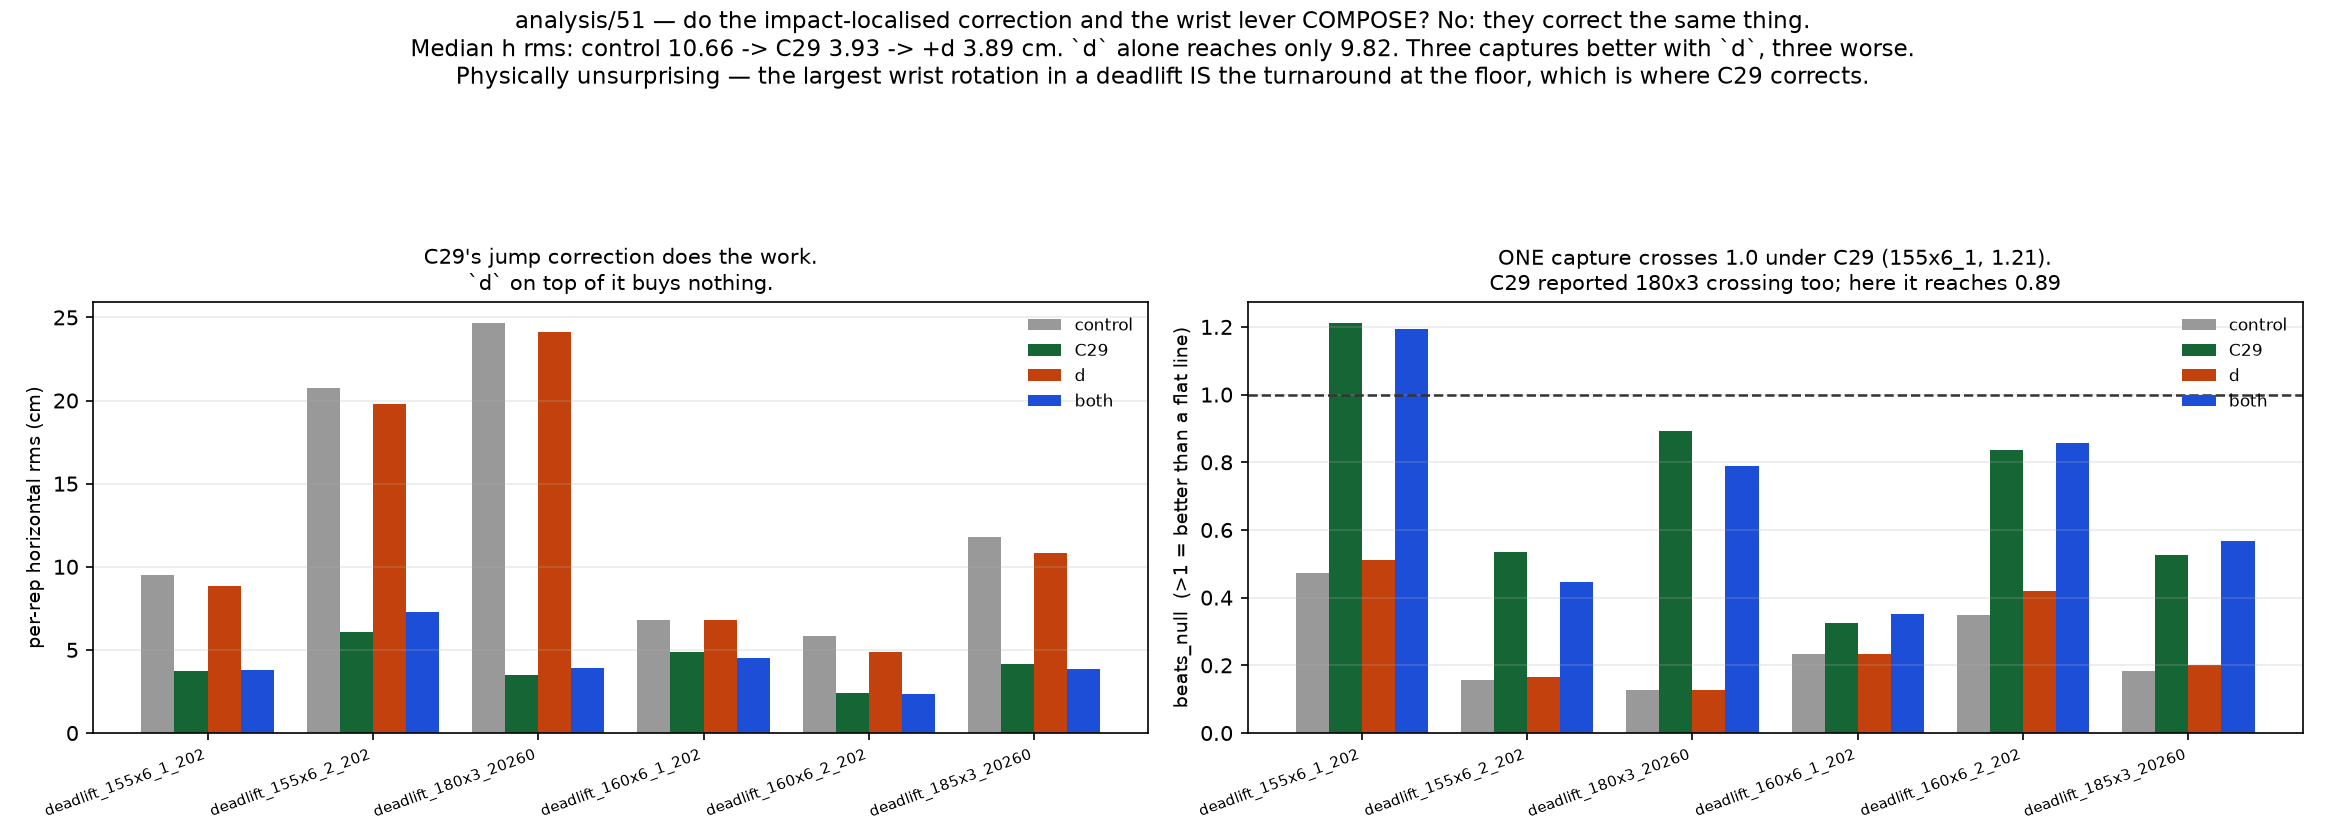
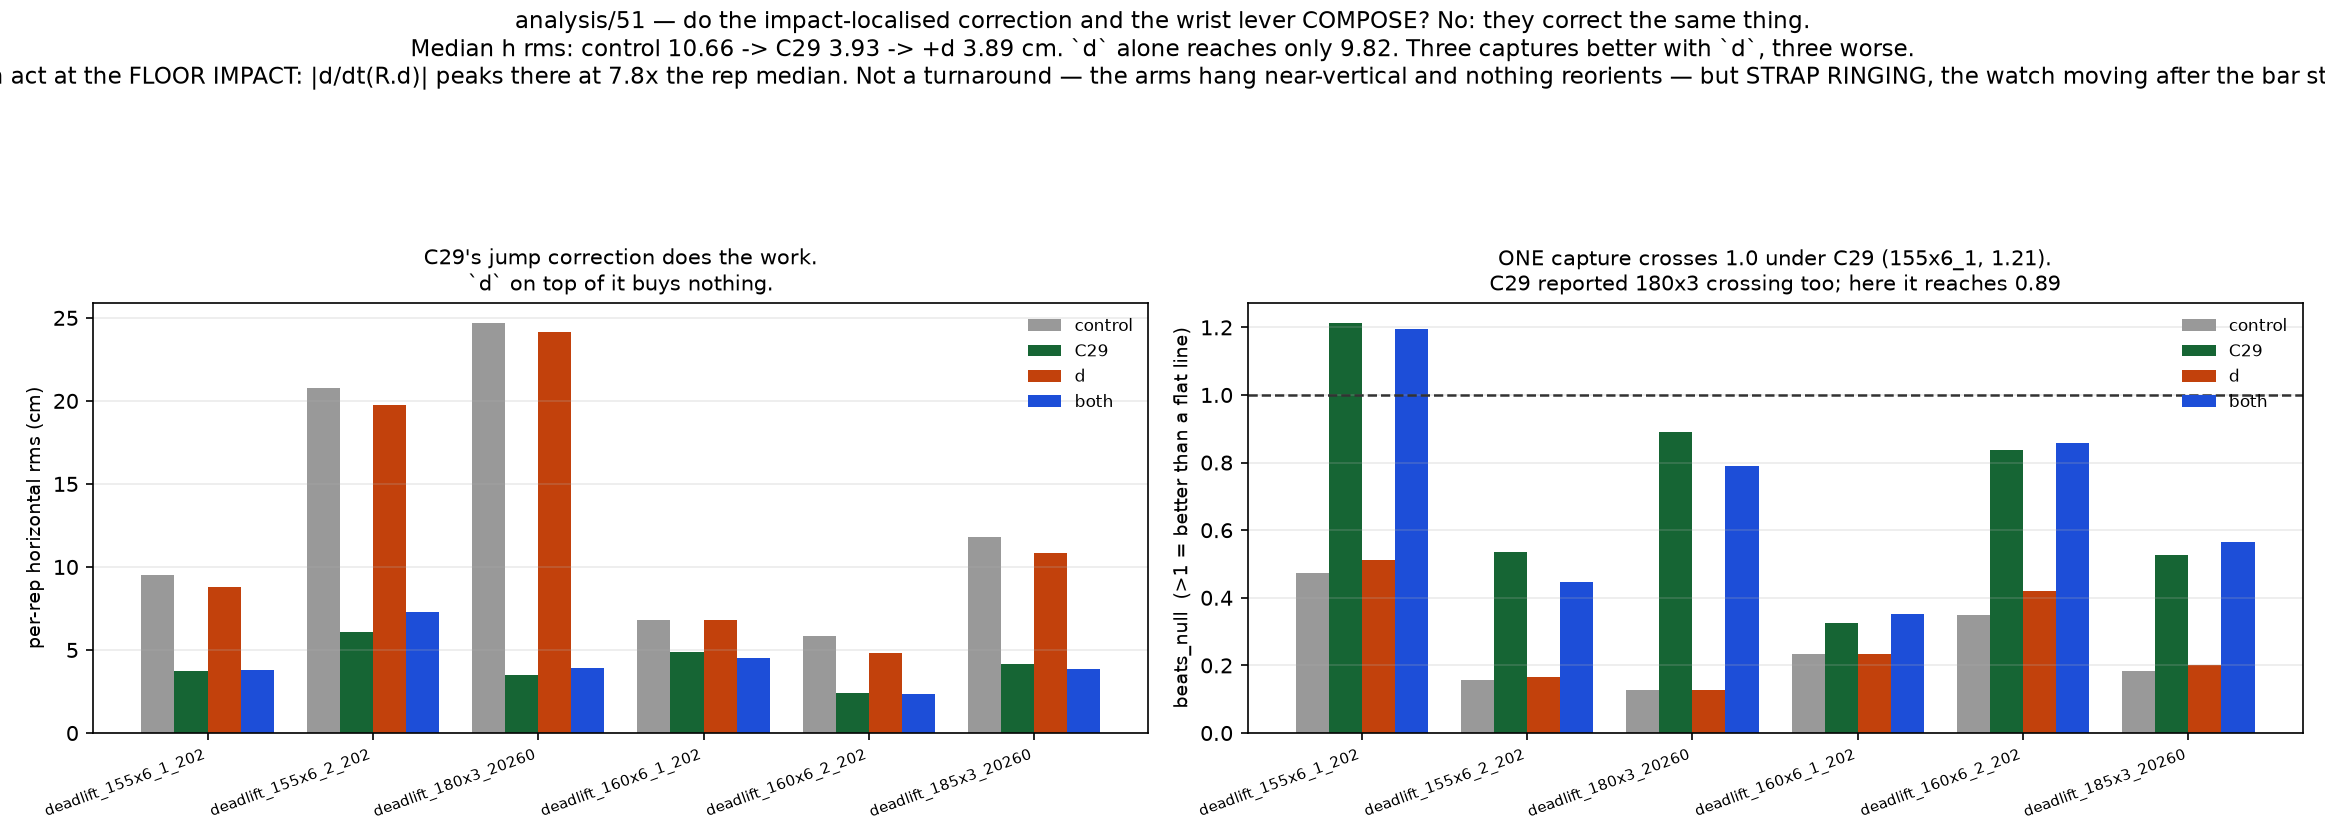
C31: correct two claims of ours that were wrong, in every place they were made
Both were committed and pushed before being caught, so this is a correction
rather than a tidy-up. Neither changes a measurement; both change what the
measurements were said to mean.

1. "THE 8-STICKER SQUAT FOOTAGE TRACKS AT 100%." False. I measured ONE capture
and generalised to the session. Two of the four track; two do not:

    squat_pause_145x4_1   100%   0.88 px   travel 59.4 cm   good
    squat_pause_140x4_2   100%   0.69 px   travel 60.1 cm   good
    squat_170x1          97.8%   1.11 px   travel 14.0 cm   MIS-TRACKED
    squat_pause_140x4_3  96.7%   1.12 px   travel 24.7 cm   MIS-TRACKED

14 cm of travel for a 65 cm squat is not the bar. The failure shape is this
project's recurring one and is the reason it slipped through: COVERAGE AND
RESIDUAL LOOK HEALTHY ON THE BAD CLIPS, because the constellation is fitting
SOMETHING rigidly frame after frame. Same shape as C12 (whole-clip NCC fine
while the template lost the plate at lockout) and C17 (whole-clip residual gate
passing while lockout breached tolerance).

So squat has a PARTIAL external check, the first in this project, not the whole
one claimed. Corrected in CLAUDE.md (both places), TASKS.md's capture-protocol
item, analysis/README.md's entry for 50, plot.plot_pipeline_now's docstring and
figure caption, and run.py's driver comment. analysis/50 regenerated.

It also re-explains an earlier claim: `bench_sync` refused squat_170x1 and
[…]

diff --git a/src/plot.py b/src/plot.py
@@ -1678,9 +1678,11 @@ def plot_pipeline_now(panels: list):
 
     Squat panels carry no video because `metrics.vs_truth` still refuses squat.
     That refusal is now STALE rather than wrong-headed — its stated reason is
-    about the old template footage, and the 8-sticker plate tracks at 100%
-    coverage — but nobody has replaced it with a validated squat sync, so the
-    honest thing is to draw the reconstruction alone and say so.
+    about the old template footage. Note the replacement claim needs care too:
+    only TWO of the four 8-sticker squat clips track cleanly; `squat_170x1` and
+    `squat_pause_140x4_3` report 14.0 and 24.7 cm of travel against 65-70 cm
+    squats (C31, corrected 2026-08-07). And nobody has built a validated squat
+    sync. So the honest thing is to draw the reconstruction alone and say so.
     """
     n = len(panels)
     cols = 3
@@ -1715,8 +1717,8 @@ def plot_pipeline_now(panels: list):
         "step 6 ON\n"
         "Reps overlaid and start-aligned, fore-aft stretched 4x as the display "
         "would draw it. Grey is the video where a referee exists.\n"
-        "Squat has no referee: vs_truth still refuses it, though the 8-sticker "
-        "footage now tracks at 100%.",
+        "Squat has no referee: vs_truth still refuses it, and only two of the "
+        "four 8-sticker squat clips track cleanly.",
         fontsize=11, y=0.995)
     fig.tight_layout(rect=(0, 0, 1, 0.93))
     return fig
@@ -1771,8 +1773,9 @@ def plot_jump_with_d(rows: dict, arms: list):
         "COMPOSE? No: they correct the same thing.\n"
         "Median h rms: control 10.66 -> C29 3.93 -> +d 3.89 cm. `d` alone "
         "reaches only 9.82. Three captures better with `d`, three worse.\n"
-        "Physically unsurprising — the largest wrist rotation in a deadlift IS "
-        "the turnaround at the floor, which is where C29 corrects.",
+        "Both act at the FLOOR IMPACT: |d/dt(R.d)| peaks there at 7.8x the rep "
+        "median. Not a turnaround — the arms hang near-vertical and nothing "
+        "reorients — but STRAP RINGING, the watch moving after the bar stops.",
         fontsize=11, y=0.99)
     fig.tight_layout(rect=(0, 0, 1, 0.86))
     return fig

diff --git a/run.py b/run.py
@@ -1423,9 +1423,10 @@ def draw_pipeline_now() -> int:
             m = metrics.vs_truth(res, pipeline.find_video(csv))
         except (ValueError, FileNotFoundError):
             # vs_truth's squat refusal is STALE rather than wrong-headed: its
-            # stated reason describes the OLD template footage, and the
-            # 8-sticker plate tracks at 100%. Do not paraphrase the exception
-            # into the caption — it would print a reason that is no longer true.
+            # stated reason describes the OLD template footage. Do not paraphrase
+            # the exception into the caption — it would print a reason that is no
+            # longer true. But do not overcorrect either: only two of the four
+            # 8-sticker squat clips track cleanly (C31, 2026-08-07).
             cap = (f"{head}\nNO REFEREE — vs_truth still refuses squat "
                    f"(reason is stale; this footage tracks)")
         else:

diff --git a/analysis/README.md b/analysis/README.md
@@ -1866,9 +1866,13 @@ and the shape is not the bar's. Both are the same code on the same day.
 
 The two squat panels are drawn without a referee because `metrics.vs_truth`
 still refuses squat. That refusal is now **stale rather than wrong-headed**: its
-stated reason is about the old template footage, and the 8-sticker plate tracks
-at 100% coverage with 0.883 px median residual. Replacing it needs a validated
-squat sync, which nobody has built. Until then the squat panels show a
+stated reason is about the old template footage. But the replacement claim
+first made here — that the 8-sticker plate tracks at 100% — was measured on ONE
+capture and generalised, and is corrected (C31, 2026-08-07): two of the four
+squat clips track cleanly and two do not, `squat_170x1` and
+`squat_pause_140x4_3` reporting 14.0 and 24.7 cm of travel against 65-70 cm
+squats. Replacing the refusal needs a validated squat sync, which nobody has
+built, AND half the footage fixed. Until then the squat panels show a
 reconstruction nothing has checked, and should be read that way.
 
 ## 51 — do the impact correction and the wrist lever COMPOSE?
@@ -1891,9 +1895,29 @@ The control and C29 rows **reproduce C29's own numbers exactly**, which is what
 licenses reading the new ones. `d` alone buys 8%; C29 alone buys 63%; together,
 nothing beyond C29 — three captures better with `d` added, three worse.
 
-Physically unsurprising once stated: **the largest wrist rotation in a deadlift
-IS the turnaround at the floor**, which is exactly where C29 corrects. The
-lever-arm error and the impact error are largely the same error seen twice.
+Why, and the first version of this paragraph got the mechanism wrong. It said
+"the largest wrist rotation in a deadlift IS the turnaround at the floor". The
+owner challenged it: the arms hang near-vertical through a deadlift, so nothing
+reorients and the only available motion is a twist. Correct, and measured
+rather than argued (C31, 2026-08-07):
+
+    swept angle per rep                          193-311 deg
+    net wrist swing per rep (C30b)               ~22 deg
+    share of swept angle in the outer 20% of phase   53-67%
+    peak of |d/dt(R.d)|                          phase 0.03, 7.8x rep median
+
+So the lever term really does move most at the floor — but ~90% of the angular
+motion is BACK-AND-FORTH, not reorientation. There is no turnaround. It is
+**strap ringing**, which B6 already identified: the watch still moving after the
+bar has stopped. The *watch* rotates; the wrist does not. The conclusion stands
+— `d` and C29 overlap because both act at the impact — but the stated mechanism
+was wrong twice over.
+
+**And the corrected mechanism carries something the wrong one did not.** Step 6
+assumes `d` is a rigid constant in BODY coordinates. During ringing the watch is
+not rigidly indexed to the wrist, so at exactly the instant `R(t).d` moves most,
+step 6's premise is false. Applying it there may be actively wrong rather than
+merely useless. Nobody has followed that up.
 
 *Two corrections to the record, both against earlier claims of ours.* C29
 reported `deadlift_155x6_1` and `deadlift_180x3` crossing `beats_null = 1.0`;

diff --git a/CLAUDE.md b/CLAUDE.md
@@ -926,8 +926,20 @@ unresolved. See `analysis/48` and `python run.py --dpaths`.
 
 **Squat is no longer the lift with no external horizontal check (C31,
 2026-08-06), and `metrics.vs_truth`'s refusal of it is now STALE.** The
-8-sticker squat plate tracks at **100% coverage, 0.883 px median residual** —
-the first squat footage in this project that tracks at all. But `vs_truth` still
+8-sticker squat plate tracks — **but only on TWO of the four clips, and the
+first version of this paragraph said all four (C31, corrected 2026-08-07).**
+
+    squat_pause_145x4_1   100%   0.88 px   travel 59.4 cm   good
+    squat_pause_140x4_2   100%   0.69 px   travel 60.1 cm   good
+    squat_170x1          97.8%   1.11 px   travel 14.0 cm   MIS-TRACKED
+    squat_pause_140x4_3  96.7%   1.12 px   travel 24.7 cm   MIS-TRACKED
+
+14 cm of travel for a 65 cm squat is not the bar. Note the failure shape, which
+is this project's recurring one: **coverage and residual look HEALTHY on the bad
+clips** because the constellation is fitting *something* rigidly, frame after
+frame. The error was measuring `squat_pause_145x4_1` and generalising to the
+session. So squat has a PARTIAL external check — the first in this project —
+rather than the whole one claimed here. But `vs_truth` still
 refuses squat by a hardcoded check whose stated reason (median NCC ~0.40, plate
 clipping the frame, two of four captures not tracking) describes the OLD
 template footage in `data/video/` and does not describe `data_v2/`. **The
@@ -1775,9 +1787,12 @@ check, and its footage got worse rather than better: two of the four 2026-07-30
 captures do not track at all; `metrics.vs_truth` refuses it; that wants a wider
 shot, not code." It got the wider shot, and it is FALSE as of 2026-08-06
 (C31).** The four `data_v2` squats are filmed from a tripod on an 8-sticker
-plate and the **plate tracks at 100% coverage with 0.883 px median residual** —
-the first squat footage in this project that tracks. It was the shot, exactly as
-predicted, and the prediction is the part worth keeping.
+plate and **two of the four clips track cleanly** (100% coverage, 0.69-0.88 px,
+travel 59-60 cm against a ~65-70 cm squat) while **two do not** — `squat_170x1`
+and `squat_pause_140x4_3` report 14.0 and 24.7 cm of travel, which is not the
+bar. It was the shot, largely as predicted, and the prediction is the part worth
+keeping; the over-claim that all four track was C31's and is corrected here
+(2026-08-07).
 
 What remains true is narrower and is now a code problem rather than a footage
 one: **`metrics.vs_truth` still refuses squat, by a hardcoded check whose stated

diff --git a/TASKS.md b/TASKS.md
@@ -2976,11 +2976,14 @@ Not code, and the highest value per effort available:
   sessions.** `data_v2/raw/` now holds thirteen paired captures — four benches
   (2026-08-03), three 8-sticker deadlifts (2026-08-04), two spoto benches and
   four squats (2026-08-06). The squat ask at the end of this item was answered
-  last and best: **the 8-sticker squat plate tracks at 100% coverage and
-  0.883 px median residual**, the first squat footage in the project that
-  tracks. What remains is code, not capture — `metrics.vs_truth` still refuses
-  squat by a hardcoded check whose stated reason describes the old template
-  footage. The original text follows.
+  last and best, though only PARTLY: **two of the four 8-sticker squat clips
+  track cleanly** (100% coverage, 0.69-0.88 px, travel 59-60 cm) and **two do
+  not** — `squat_170x1` and `squat_pause_140x4_3` report 14.0 and 24.7 cm of
+  travel against 65-70 cm squats. C31 first wrote "the plate tracks at 100%",
+  having measured one capture and generalised; corrected 2026-08-07. So what
+  remains is BOTH code and capture: `metrics.vs_truth` still refuses squat by a
+  hardcoded check whose stated reason describes the old template footage, AND
+  half the squat footage is not yet usable. The original text follows.
 - **Put the watch on and re-shoot with the markers.** ~~Now the highest-value item
   in this list, and it displaces the two below.~~ The 2026-08-01 session solved
   the referee and produced nothing to referee: five marker captures, zero IMU
